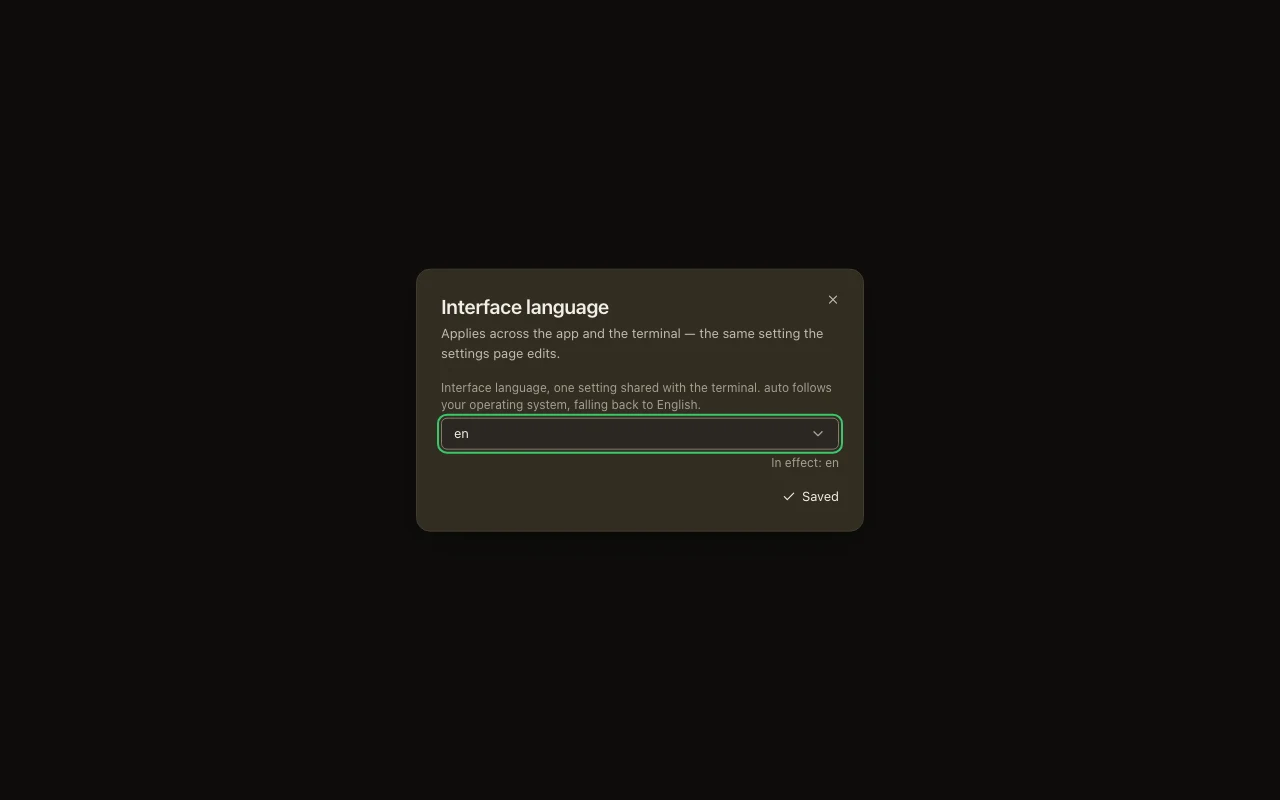
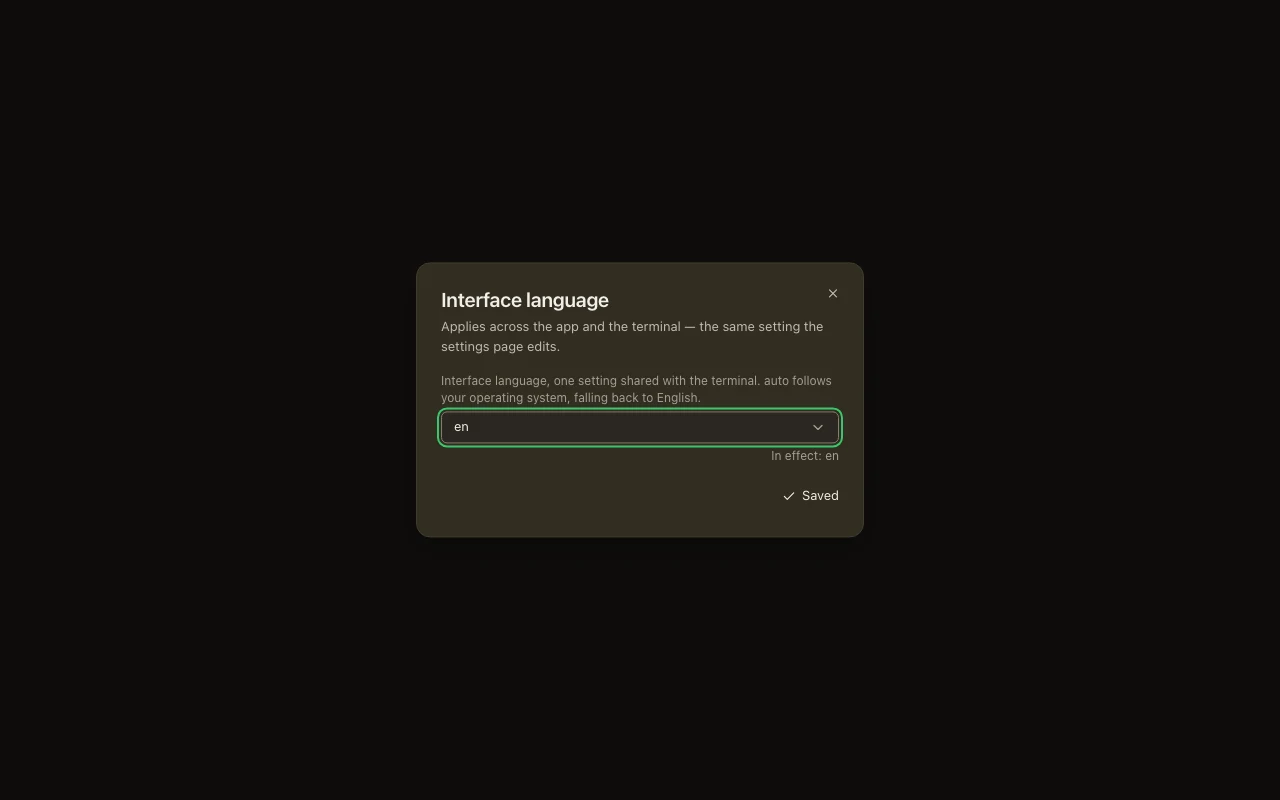
fix(i18n): round-2 remediation - the refusal is an answer's verdict (B)
One root cause answered across three streams (review R2-1 = UX U5 = QA Q-2),
plus the reviewer's minor and the designer's nit:

- R2-1/U5/Q-2 (MAJOR): `refused = Boolean(capabilities.data) && !enabled` -
  the refusal is an ANSWER's verdict, never an absence of one. The no-answer
  states are now distinguished instead of collapsed into "this backend does
  not serve the settings": still asking (no data, no error) reads STRICTLY as
  loading; a call failure WITH prior data keeps the data's verdict (an
  earlier refusal stays a refusal, and the section's own rule - a refetch
  failure is not evidence the answer was never usable - is what it mirrors);
  a COLD failure (error, no data) renders the pairing sentence and retries
  the fault's own query (`capabilities.refetch`), which is the arm that was
  unreachable. Three new suite arms pin each state, including the Retry's
  re-ask proved by op count, and two new story states photograph them
  (`dialog-loading`, `dialog-cold-failure`) - which pays down the deferred D6
  coverage note for these states.
- R2-2 (MINOR): the loading guard is narrowed to `settingsQuery.isPending`,
  and the trailing fallback is KEPT and now reachable: a settled registry
  whose answer lacks the language row resolves to the unavailable sentence
  (true for it) instead of spinning in the old `!setting && !isError` guard.
  Chosen over dropping the branch because dropping it re-opens the same
  spin for the row-less case.
[…]

Changed region(s): [[0.3125, 0.3125, 0.6875, 0.625], [0.3125, 0.6562, 0.6875, 0.6875]]

diff --git a/src/renderer/src/features/settings/components/language-dialog.tsx b/src/renderer/src/features/settings/components/language-dialog.tsx
@@ -176,15 +176,27 @@ export const LanguageDialog: FC = () => {
 
 	/*
 	 * The load state, classified the way the settings section classifies it
-	 * (round-1 U1): a capabilities answer that never granted `settings` is a
-	 * REFUSAL with no remedy here; a failed query is the pairing table's own
-	 * sentence with its Retry; and "loading" is reserved for a query that is
-	 * genuinely in flight. A dialog that said "Loading" forever on a backend
-	 * that will never answer is the state this replaces.
+	 * (round 2, R2-1/U5/Q-2). THE REFUSAL IS AN ANSWER'S VERDICT, never an
+	 * absence of one: `capabilities.data && !enabled`. The no-answer states
+	 * are distinguished rather than collapsed into "this backend does not
+	 * serve the settings":
+	 *
+	 * - still asking (no data, no error): strictly loading - no sentence
+	 *   about a backend that has not spoken;
+	 * - failed COLD (error with no data at all): the pairing table's own
+	 *   sentence, and the Retry below now has a reachable arm for it
+	 *   (`capabilities.refetch`);
+	 * - failed WITH prior data: the data governs (the section's own rule - a
+	 *   refetch failure is not evidence that the earlier answer was unusable),
+	 *   so an earlier refusal stays a refusal and an earlier grant keeps
+	 *   working.
 	 */
-	const loadError =
-		(capabilities.data ? null : capabilities.error) ?? settingsQuery.error;
-	const refused = !enabled;
+	const answered = Boolean(capabilities.data);
+	const refused = answered && !enabled;
+	const capabilitiesFault =
+		capabilities.error && !capabilities.data ? capabilities.error : null;
+	const loadError = capabilitiesFault ?? settingsQuery.error;
+	const pendingCapabilities = !answered && !loadError;
 	const { sentence: pairingSentence, remedy } = pairingCardCopy(
 		pairingCause ?? null,
 		"Your settings could not be loaded.",
@@ -223,7 +235,12 @@ export const LanguageDialog: FC = () => {
 						{t("ui.settings.language.dialog.description")}
 					</DialogDescription>
 				</div>
-				{refused ? (
+				{pendingCapabilities ? (
+					<div className="flex items-center gap-2 text-body-sm text-ink-muted">
+						<Spinner />
+						{t("ui.settings.language.dialog.loading")}
+					</div>
+				) : refused ? (
 					<Alert variant="warning">
 						<span>{t("ui.settings.language.dialog.unavailable")}</span>
 					</Alert>
@@ -237,7 +254,8 @@ export const LanguageDialog: FC = () => {
 									size="sm"
 									className="shrink-0"
 									onClick={() => {
-										if (capabilities.isError) void capabilities.refetch();
+										/* Reachable cold: the arm retries the fault's own query. */
+										if (capabilitiesFault) void capabilities.refetch();
 										else void settingsQuery.refetch();
 									}}
 									disabled={retrying}
@@ -249,7 +267,7 @@ export const LanguageDialog: FC = () => {
 							)}
 						</div>
 					</Alert>
-				) : settingsQuery.isLoading || (!setting && !settingsQuery.isError) ? (
+				) : settingsQuery.isPending ? (
 					<div className="flex items-center gap-2 text-body-sm text-ink-muted">
 						<Spinner />
 						{t("ui.settings.language.dialog.loading")}
@@ -275,7 +293,13 @@ export const LanguageDialog: FC = () => {
 							/>
 						</div>
 						{error && <p className="text-meta text-danger">{error}</p>}
-						<div className="flex justify-end">
+						{/*
+						 * min-h-8 pins the footer to the `md` Button's own
+						 * height, so the Save -> `Saved` swap no longer
+						 * shrinks it and the dialog stops re-centring 6px
+						 * when the confirmation appears (round-2 D7).
+						 */}
+						<div className="flex min-h-8 items-center justify-end">
 							{saved && !dirty ? (
 								/*
 								 * In-place confirmation in NORMAL ink (round-1 D2):
@@ -304,6 +328,12 @@ export const LanguageDialog: FC = () => {
 						</div>
 					</>
 				) : (
+					/*
+					 * R2-2: kept, and now REACHABLE - a settled registry whose
+					 * answer does not carry the language row resolves here (the
+					 * sentence is true for it), instead of spinning in the old
+					 * `!setting && !isError` loading guard.
+					 */
 					<Alert variant="warning">
 						<span>{t("ui.settings.language.dialog.unavailable")}</span>
 					</Alert>

diff --git a/src/renderer/src/features/settings/components/language-door.stories.tsx b/src/renderer/src/features/settings/components/language-door.stories.tsx
@@ -49,9 +49,28 @@ const ok = (result: unknown): DesktopResponse => ({
 	body: { status: 200, message: "ok", result },
 });
 
+/*
+ * How the capabilities answer behaves, per story: `ok` is the shipped answer;
+ * `loading` never settles (a backend mid-handshake) and `cold-failure` fails
+ * with no data at all. The two non-ok modes are the round-2 states - loading
+ * reads strictly as loading, and a cold failure reads as the pairing sentence
+ * with its Retry - and they exist here so those states are photographed, not
+ * just asserted.
+ */
+let bridgeMode: "ok" | "loading" | "cold-failure" = "ok";
+
 const bridge = async (request: BridgeRequest): Promise<DesktopResponse> => {
 	switch (request.op) {
 		case "capabilities":
+			if (bridgeMode === "loading") {
+				return new Promise<DesktopResponse>(() => {});
+			}
+			if (bridgeMode === "cold-failure") {
+				return {
+					status: 503,
+					body: { status: 503, message: "The server is not answering." },
+				};
+			}
 			return ok({
 				desktop_contract: 1,
 				desktop_available: true,
@@ -88,9 +107,13 @@ if (typeof window !== "undefined") {
 
 /* --------------------------------------------------------------- stories */
 
-const Ground: FC<{ dialog?: boolean }> = ({ dialog = true }) => {
+const Ground: FC<{
+	dialog?: boolean;
+	mode?: "ok" | "loading" | "cold-failure";
+}> = ({ dialog = true, mode = "ok" }) => {
 	/* The app mounts this once; the note reads the store it feeds. */
 	useI18nLocaleSync();
+	bridgeMode = mode;
 	useEffect(() => {
 		if (dialog) useLanguageDialogStore.getState().openLanguage();
 	}, [dialog]);
@@ -236,4 +259,20 @@ export const DialogSaved: Story = {
 
 export const ExternalToast: Story = {
 	render: () => <DrivenToast />,
+};
+
+/*
+ * The two round-2 states (R2-1/U5/Q-2), photographed so the classification is
+ * reviewable rather than asserted only: a backend that has not answered reads
+ * STRICTLY as loading - no sentence about a backend that has not spoken - and
+ * a COLD failure reads as the pairing sentence with a Retry whose arm is
+ * reachable (`language-dialog.test.mjs` proves the click re-asks
+ * capabilities).
+ */
+export const DialogLoading: Story = {
+	render: () => <Ground mode="loading" />,
+};
+
+export const DialogColdFailure: Story = {
+	render: () => <Ground mode="cold-failure" />,
 };
